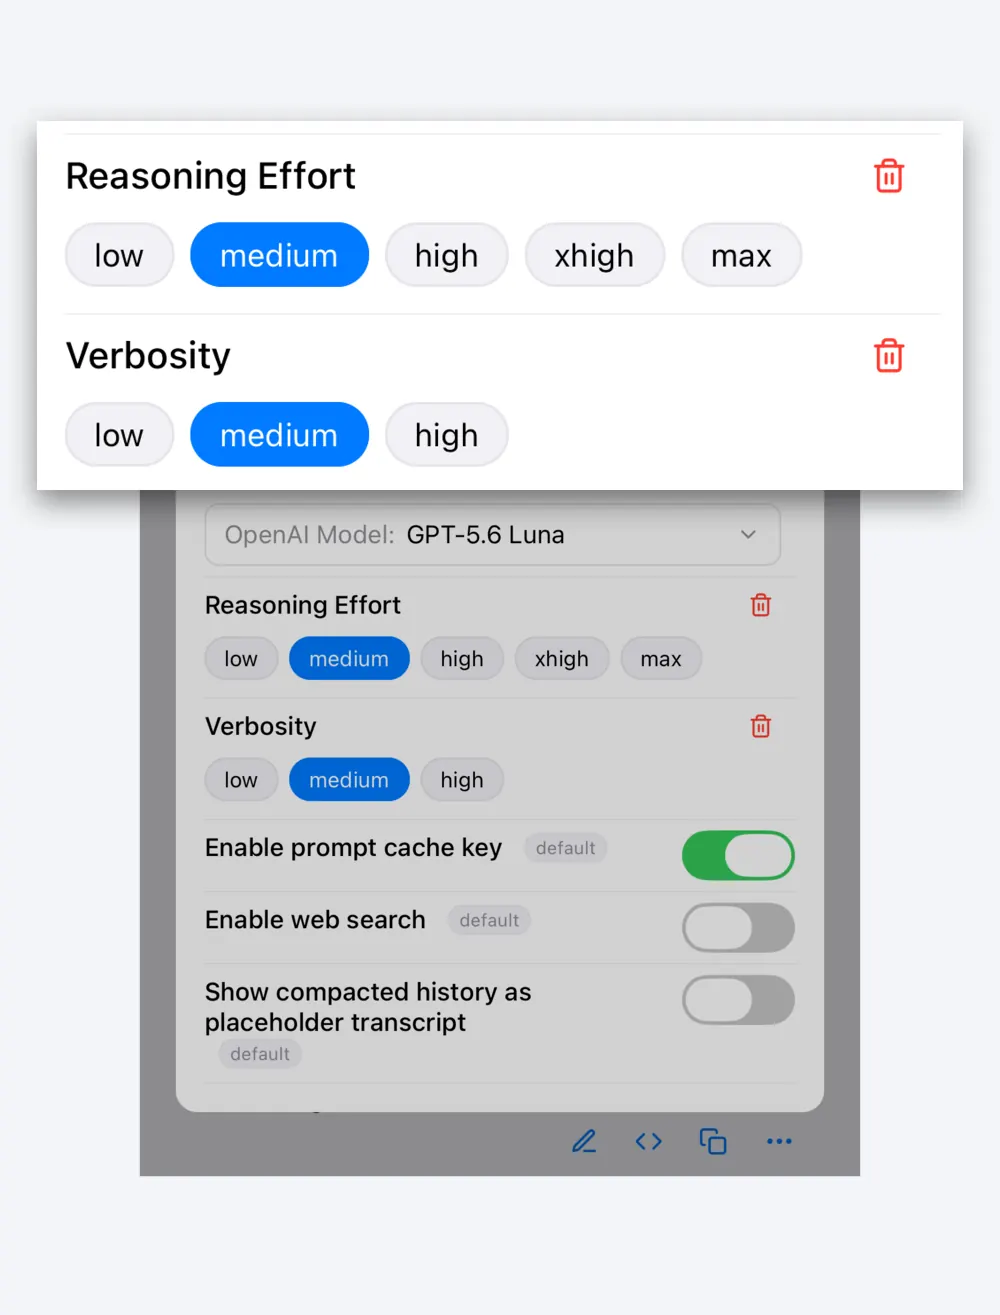
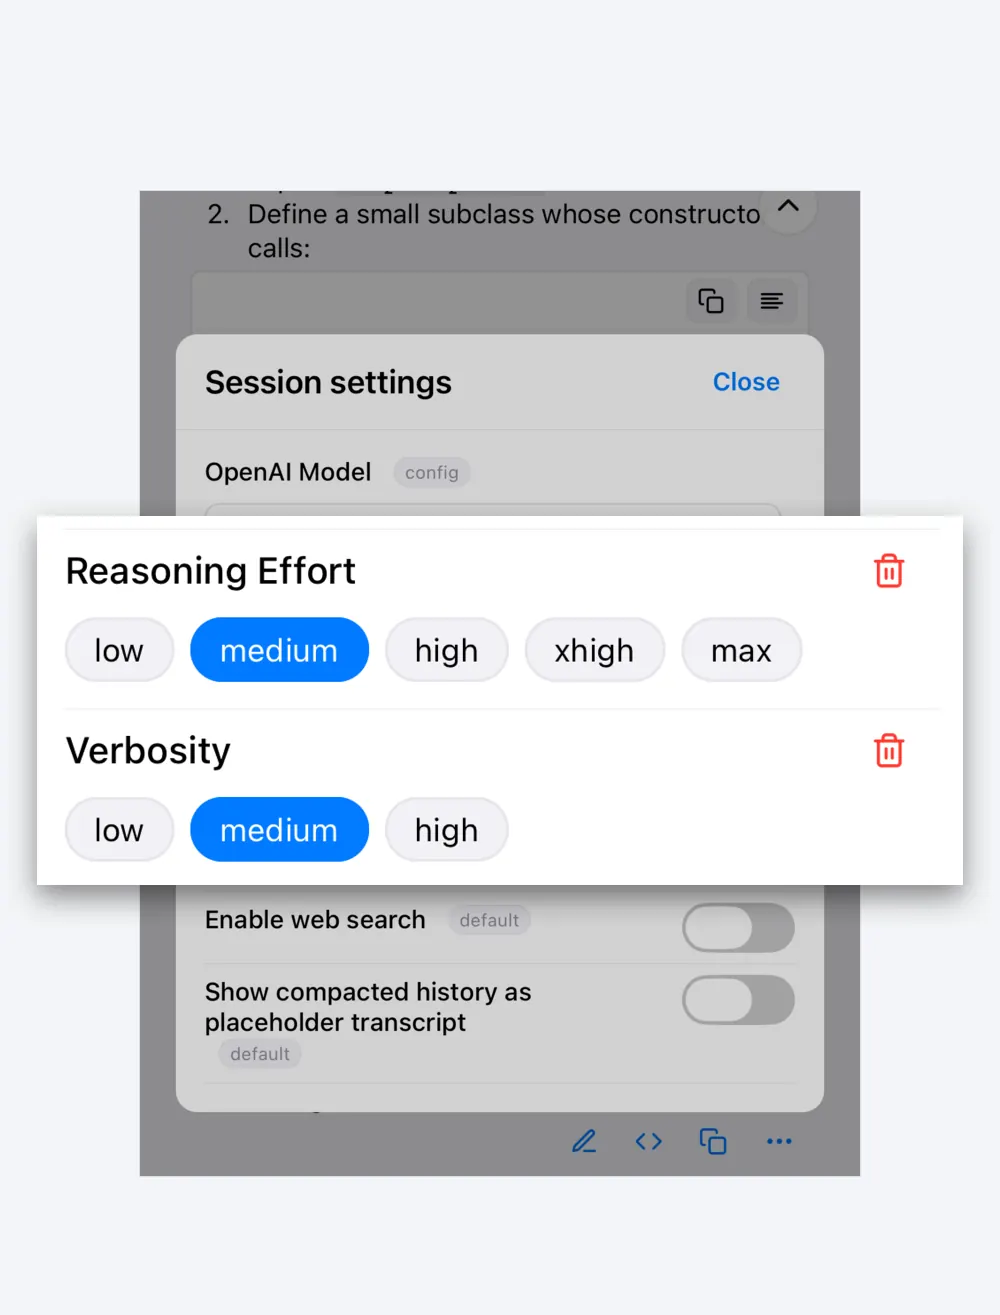
Cover provider focus source regions

diff --git a/tasks/20260825-crystal-lattice-product-positioning-and-website/025-integrate-current-visual-baseline-and-bootstrap-asset-pipeline.md b/tasks/20260825-crystal-lattice-product-positioning-and-website/025-integrate-current-visual-baseline-and-bootstrap-asset-pipeline.md
@@ -1554,14 +1554,14 @@ content, privacy, and product-communication judgments only.
     region using asset-specific vertical geometry.
 - Replaced the old phone-silhouette/manual composites with current unframed
   light/dark provider cards:
-  - reasoning light: 1000x1315, 32,054 bytes,
[1 lines of base64/hex data omitted]
-  - reasoning dark: 1000x1315, 31,050 bytes,
[1 lines of base64/hex data omitted]
-  - usage light: 940x1334, 53,148 bytes,
[1 lines of base64/hex data omitted]
-  - usage dark: 940x1334, 62,984 bytes,
[1 lines of base64/hex data omitted]
+  - reasoning light: 1000x1315, 27,824 bytes,
[1 lines of base64/hex data omitted]
+  - reasoning dark: 1000x1315, 26,948 bytes,
[1 lines of base64/hex data omitted]
+  - usage light: 940x1334, 52,660 bytes,
[1 lines of base64/hex data omitted]
+  - usage dark: 940x1334, 58,508 bytes,
[1 lines of base64/hex data omitted]
 - Updated authored alt text and exact active-theme byte contracts. The complete
   catalog now validates 12 results totaling 544,396 bytes.
 - Automated verification completed:
@@ -1770,8 +1770,8 @@ content, privacy, and product-communication judgments only.
   - dark: 1000x2025, 68,378 bytes,
[1 lines of base64/hex data omitted]
 - Theme budgets remain below the existing 300 KB limit:
-  - light: 299,550 bytes;
-  - dark: 298,734 bytes.
+  - light: 294,832 bytes;
+  - dark: 290,156 bytes.
 - Final automated verification:
   - six session-fixture tests, including reviewed-prefix preservation and
     follow-up shape/reasoning validation;
@@ -1782,7 +1782,7 @@ content, privacy, and product-communication judgments only.
   - 314 frontend SDK tests;
   - real FastAPI/`FetchTransport`/`RestAgentBackend` integration;
   - successful ten-state iOS Detox build/capture;
-  - complete 14-result visual catalog totaling 707,738 bytes;
+  - complete 14-result visual catalog totaling 694,442 bytes;
   - Astro build and all 12 responsive/theme Playwright tests;
   - Black, Ruff, and `git diff --check`.
 - The implementation remains unstaged and is stopped at the revised manual C4
@@ -1833,7 +1833,7 @@ content, privacy, and product-communication judgments only.
 - Post-documentation verification:
   - 18 visual-asset JavaScript tests;
   - seven Python session/runtime fixture tests;
-  - 14-result catalog check totaling 707,738 bytes;
+  - 14-result catalog check totaling 694,442 bytes;
   - Astro build;
   - all 12 responsive/theme Playwright tests;
   - JSON, CSV, and `git diff --check`.
@@ -1868,3 +1868,40 @@ content, privacy, and product-communication judgments only.
   copied into the prepared documentation site. This publication gap predates
   the audience split; package registration was not added as an implicit
   expansion of this documentation refactor.
+
+### August 30, 2026 — Provider focus placement correction
+
+- The user identified that the promoted reasoning and usage callouts appeared
+  separately from the original-sized source region, leaving the same content
+  visible twice.
+- Confirmed this was not a source-promotion or derivative-publication failure:
+  the public files matched the catalog hashes and commit `a37f2d3d`.
+- Corrected the per-asset vertical placement in both themes:
+  - reasoning callouts move from Y 105 to Y 500;
+  - usage/cost callouts move from Y 640 to Y 850.
+- The generic `focusCalloutPipeline` remains unchanged. It continues to apply
+  asset-local crop, placement, border, and shadow configuration.
+- Full-size and website-scale light/dark inspection confirms:
+  - the enlarged reasoning panel fully covers the original reasoning and
+    verbosity controls;
+  - the enlarged usage panel fully covers the original message-footer text;
+  - contextual screen content remains visible around each callout.
+- Added a catalog regression test that derives the scaled source-region
+  position from the actual ImageMagick arguments and requires every provider
+  callout to cover that region vertically.
+- Updated derivatives and retained evidence:
+  - reasoning light: 27,824 bytes,
[1 lines of base64/hex data omitted]
+  - reasoning dark: 26,948 bytes,
[1 lines of base64/hex data omitted]
+  - usage light: 52,660 bytes,
[1 lines of base64/hex data omitted]
+  - usage dark: 58,508 bytes,
[1 lines of base64/hex data omitted]
+- Verification:
+  - 19 visual-asset JavaScript tests;
+  - 14-result catalog check totaling 694,442 bytes;
+  - Astro build;
+  - all 12 responsive/theme Playwright tests;
+  - retained manifest/hash validation;
+  - `git diff --check`.
